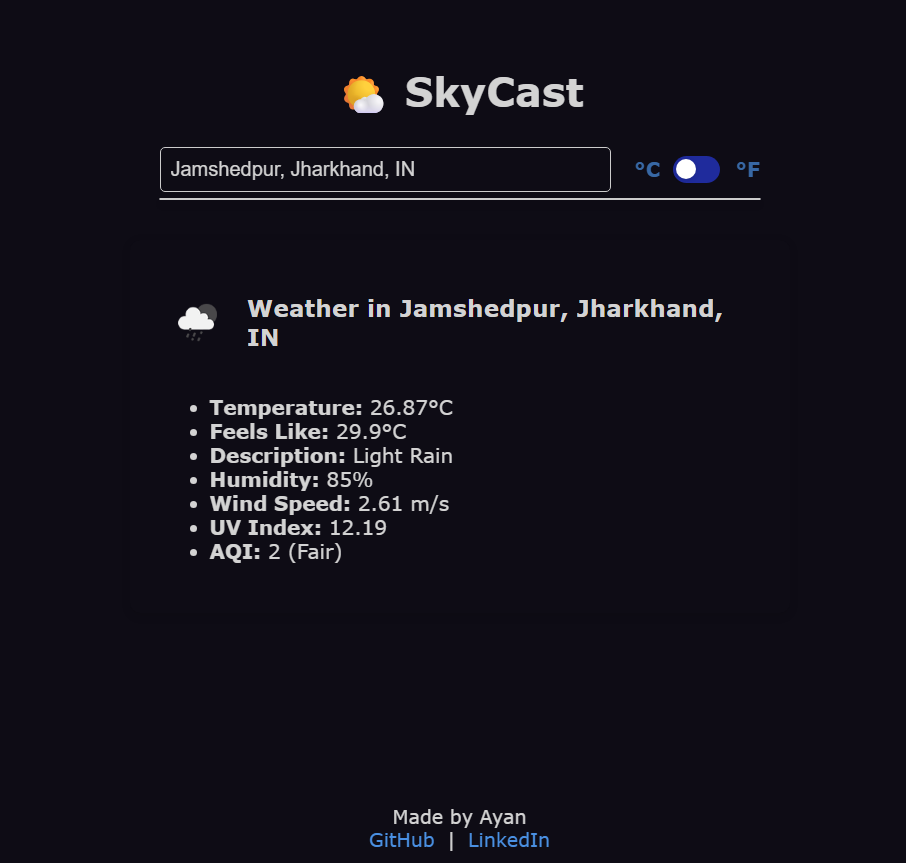
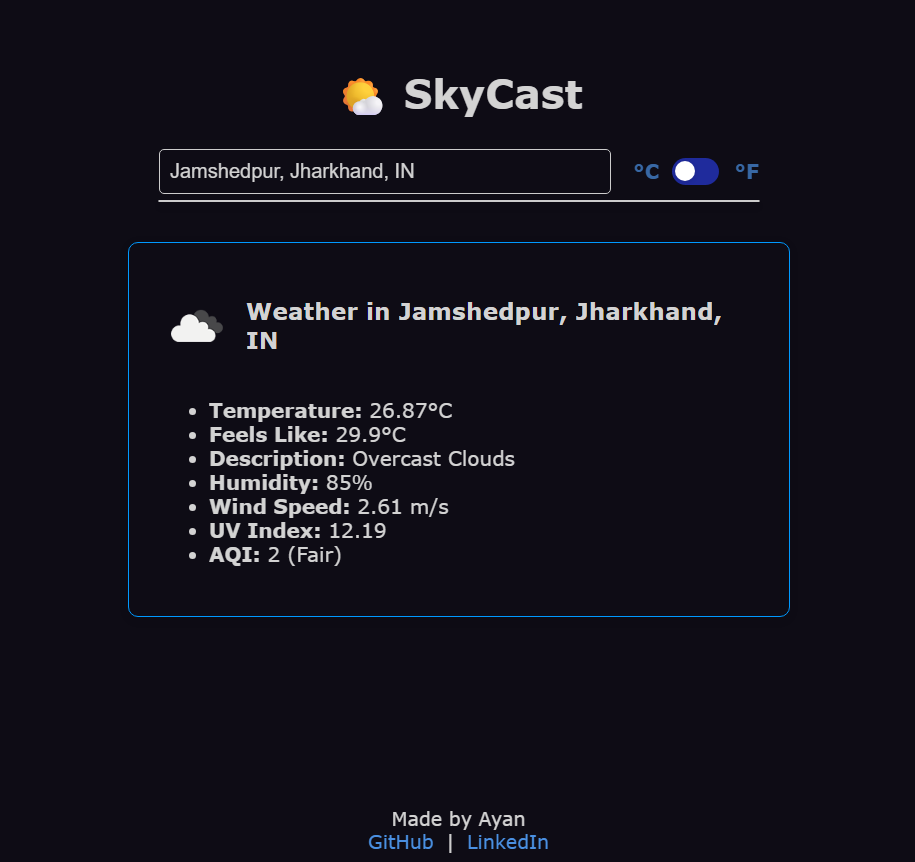
hotfix

diff --git a/static/style.css b/static/style.css
@@ -29,6 +29,7 @@ input, button {
   width: 100%;
   max-width: 30rem;
   border-radius: 8px;
+  border: #0099ff 1px solid;
   box-shadow: 0 2px 8px rgba(0, 0, 0, 0.1);
   opacity: 0;
   transform: translateY(20px);

diff --git a/readme.md b/readme.md
@@ -3,7 +3,7 @@
 A modern, responsive weather web app built with [Flask](https://flask.palletsprojects.com/) and [OpenWeatherMap](https://openweathermap.org)'s API. 
 Shows current weather, UV index, and air quality for any city.
 
-[Live Demo](https://weather-ehsc.onrender.com)
+[Live Demo](https://skycast-glo2.onrender.com)
 
 ---
 
@@ -18,7 +18,7 @@ Shows current weather, UV index, and air quality for any city.
 ---
 
 ## 📸 Screenshots
-![Preview](preview1.png) | ![Weather Preview](preview2.png) |
+![Preview](./screenshots/preview1.png) | ![Weather Preview](./screenshots/preview2.png) |
 
 
 ---
@@ -72,4 +72,4 @@ Shows current weather, UV index, and air quality for any city.
 **References:**
 - [Flask Quickstart](https://github.com/pallets/flask/blob/main/docs/quickstart.rst#_snippet_5)
 - [OpenWeatherMap API Docs](https://openweathermap.org/api)
-- [Weather Info Live Demo](https://weather-ehsc.onrender.com)
+- [Weather Info Live Demo](https://skycast-glo2.onrender.com)
